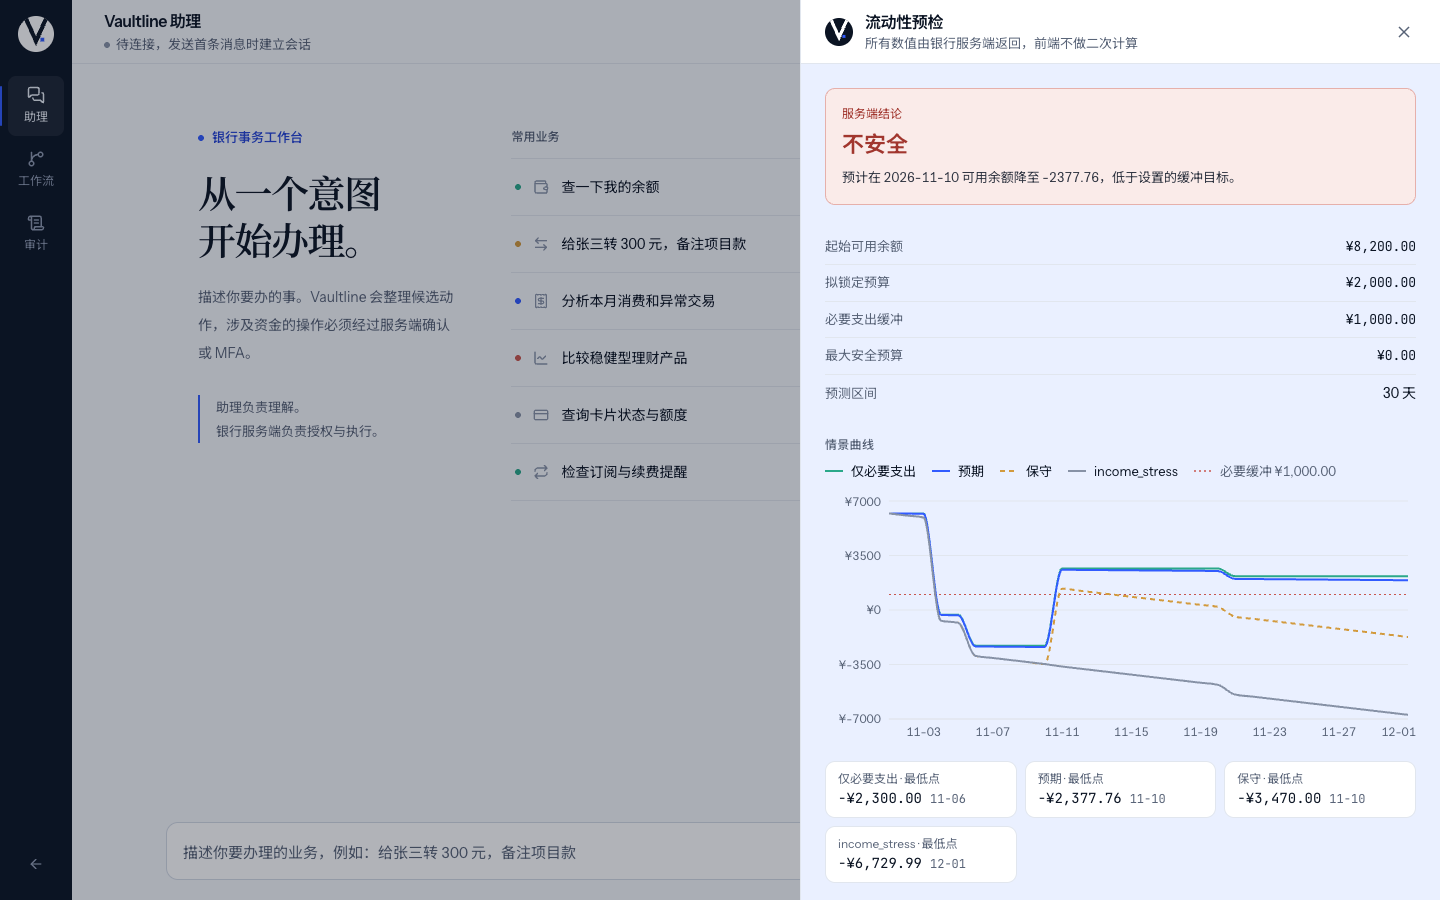
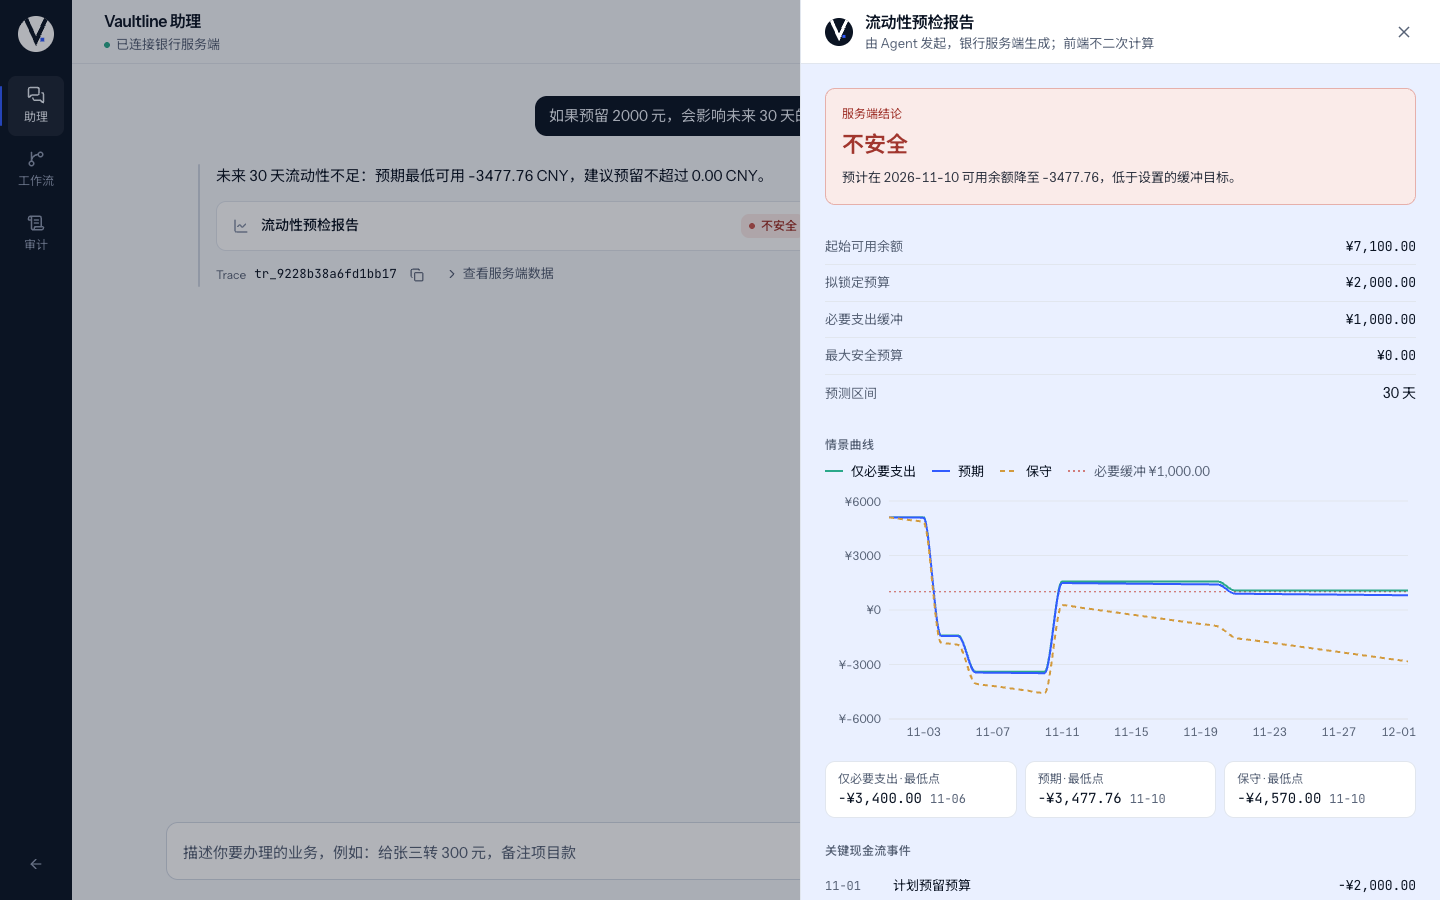
fix: route liquidity preflight through the agent

diff --git a/frontend/components/workspace/liquidity-drawer.tsx b/frontend/components/workspace/liquidity-drawer.tsx
@@ -1,17 +1,15 @@
 'use client'
 
 import { Check, X } from 'lucide-react'
-import { useEffect, useId, useRef, useState, type FormEvent } from 'react'
+import { useEffect, useRef, useState } from 'react'
 import { VaultlineSeal } from '@/components/vaultline/seal'
 import { cn } from '@/lib/utils'
-import { newIdempotencyKey, toApiError } from '@/lib/vaultline/api'
-import { mapApiError, type SafeErrorState } from '@/lib/vaultline/errors'
 import { formatDate, formatMoney } from '@/lib/vaultline/format'
 import { TONE, VERDICT } from '@/lib/vaultline/status'
 import type { LiquidityAlternative, LiquiditySimulation } from '@/lib/vaultline/types'
 import type { WorkspaceSession } from '@/lib/vaultline/use-workspace-session'
 import { LiquidityChart } from './liquidity-chart'
-import { Callout, CopyId, FieldList, RawData, SectionLabel, Spinner, StatusPill } from './primitives'
+import { CopyId, FieldList, RawData, SectionLabel, Spinner, StatusPill } from './primitives'
 
 interface LiquidityDrawerProps {
   open: boolean
@@ -19,68 +17,6 @@ interface LiquidityDrawerProps {
   session: WorkspaceSession
   creatingWorkflow: boolean
   onSelectAlternative: (simulation: LiquiditySimulation, alternative: LiquidityAlternative) => void
-}
-
-function RequestForm({ session }: { session: WorkspaceSession }) {
-  const inputId = useId()
-  const [budget, setBudget] = useState('')
-  const [pending, setPending] = useState(false)
-  const [error, setError] = useState<SafeErrorState | null>(null)
-  const keyRef = useRef<{ budget: string; key: string } | null>(null)
-
-  async function submit(event: FormEvent) {
-    event.preventDefault()
-    const amount = Number(budget)
-    if (!Number.isFinite(amount) || amount <= 0 || pending) return
-    if (keyRef.current?.budget !== budget) keyRef.current = { budget, key: newIdempotencyKey() }
-    setPending(true)
-    setError(null)
-    try {
-      const simulation = await session.adapter.createLiquiditySimulation({ proposed_budget: amount, horizon_days: 30 }, keyRef.current.key)
-      keyRef.current = null
-      session.setLiquidity(simulation)
-      session.rememberTrace(simulation.trace_id)
-    } catch (e) {
-      setError(mapApiError(toApiError(e)))
-    } finally {
-      setPending(false)
-    }
-  }
-
-  return (
-    <form onSubmit={submit} className="flex flex-col gap-3">
-      <p className="text-pretty text-[15px] leading-relaxed">在锁定预算前，看清未来 30 天的现金流最低点。</p>
-      <label htmlFor={inputId} className="text-[13px] text-muted-foreground">
-        拟锁定预算（元）
-      </label>
-      <div className="flex gap-2">
-        <input
-          id={inputId}
-          name="budget_amount"
-          value={budget}
-          onChange={(e) => setBudget(e.target.value.replace(/[^\d.]/g, ''))}
-          autoComplete="off"
-          inputMode="decimal"
-          placeholder="例如 5000"
-          className="h-10 min-w-0 flex-1 rounded-lg border border-input bg-card px-3 font-mono text-[15px] outline-none focus:border-cobalt"
-        />
-        <button
-          type="submit"
-          disabled={pending || !budget}
-          className="inline-flex h-10 shrink-0 items-center gap-2 rounded-lg bg-cobalt px-4 text-[14px] font-medium text-primary-foreground transition-colors hover:bg-cobalt-ink disabled:opacity-50"
-        >
-          {pending && <Spinner />}
-          运行预检
-        </button>
-      </div>
-      {error && (
-        <Callout tone={error.tone} title={error.title}>
-          <p>{error.body}</p>
-        </Callout>
-      )}
-      <p className="text-[12.5px] leading-relaxed text-muted-foreground">预检只读，不冻结资金、不创建动作。结果由服务端根据账户现金流计算。</p>
-    </form>
-  )
 }
 
 function Alternatives({
@@ -241,9 +177,9 @@ export function LiquidityDrawer({ open, onClose, session, creatingWorkflow, onSe
           <VaultlineSeal className="size-7 shrink-0" />
           <div className="min-w-0 flex-1">
             <h2 id="ws-liquidity-title" className="text-[16px] font-semibold tracking-tight">
-              流动性预检
+              流动性预检报告
             </h2>
-            <p className="truncate text-[13px] text-muted-foreground">所有数值由银行服务端返回，前端不做二次计算</p>
+            <p className="truncate text-[13px] text-muted-foreground">由 Agent 发起，银行服务端生成；前端不二次计算</p>
           </div>
           <button
             type="button"
@@ -265,15 +201,17 @@ export function LiquidityDrawer({ open, onClose, session, creatingWorkflow, onSe
                 onSelect={(alt) => onSelectAlternative(simulation, alt)}
               />
             ) : (
-              <RequestForm session={session} />
+              <p className="text-[14px] leading-relaxed text-muted-foreground">
+                请先在对话中描述预算和现金流问题。Agent 会调用银行服务端的流动性预检工具。
+              </p>
             )}
             {simulation && (
               <button
                 type="button"
-                onClick={() => session.setLiquidity(null)}
+                onClick={onClose}
                 className="self-start text-[13px] font-medium text-cobalt-ink hover:underline"
               >
-                以新的预算重新预检
+                关闭报告，返回对话继续追问
               </button>
             )}
           </div>

diff --git a/frontend/lib/vaultline/api.ts b/frontend/lib/vaultline/api.ts
@@ -1,6 +1,5 @@
 import {
   asObject,
-  asNumber,
   asText,
   normalizeAction,
   normalizeAdvance,
@@ -16,7 +15,6 @@ import type {
   BankAction,
   Conversation,
   JsonObject,
-  LiquiditySimulation,
   MessageResult,
   Workflow,
   WorkflowAdvanceResult,
@@ -146,24 +144,6 @@ export const verifyActionMfa = (id: string, code: string, key: string) =>
   actionCall('POST', `/v1/actions/${seg(id)}/mfa/verify`, { code }, key)
 export const cancelAction = (id: string, key: string) => actionCall('POST', `/v1/actions/${seg(id)}/cancel`, {}, key)
 export const triggerAction = (id: string, key: string) => actionCall('POST', `/v1/actions/${seg(id)}/trigger`, {}, key)
-
-/* ---------- Liquidity ---------- */
-
-export async function createLiquiditySimulation(input: JsonObject, key: string): Promise<LiquiditySimulation> {
-  const budget = asNumber(input.proposed_budget)
-  if (budget === null || budget <= 0) {
-    throw new VaultlineApiError('invalid', '流动性预检金额无效。')
-  }
-  const body: JsonObject = {
-    account_id: asText(input.account_id) ?? 'acct_demo',
-    proposed_budget_minor: Math.round(budget * 100),
-    horizon_days: asNumber(input.horizon_days) ?? 30,
-  }
-  const buffer = asNumber(input.essential_buffer)
-  if (buffer !== null && buffer >= 0) body.essential_buffer_minor = Math.round(buffer * 100)
-  const { data, traceId } = await call('POST', '/v1/liquidity-simulations', body, key)
-  return requireValue(normalizeLiquidity(data, traceId), '流动性模拟结果')
-}
 
 /* ---------- Workflows ---------- */
 

diff --git a/frontend/components/workspace/empty-state.tsx b/frontend/components/workspace/empty-state.tsx
@@ -1,6 +1,6 @@
 'use client'
 
-import { ArrowLeftRight, ChevronRight, CreditCard, LineChart, Receipt, Repeat, Wallet } from 'lucide-react'
+import { ArrowLeftRight, ChartLine, ChevronRight, CreditCard, LineChart, Receipt, Repeat, Wallet } from 'lucide-react'
 
 const SHORTCUTS = [
   { prompt: '查一下我的余额', icon: Wallet, tag: '查询', color: 'bg-teal' },
@@ -53,6 +53,21 @@ export function EmptyState({ onPick, disabled }: { onPick: (prompt: string) => v
           </li>
         ))}
         </ul>
+        <button
+          type="button"
+          disabled={disabled}
+          onClick={() => onPick('如果预留 2000 元，会影响未来 30 天的必要支出吗？')}
+          className="group mt-5 flex items-center gap-3 border-l-2 border-teal py-2 pl-4 text-left transition-colors hover:bg-card disabled:opacity-50"
+        >
+          <ChartLine className="size-4 shrink-0 text-teal" aria-hidden />
+          <span className="min-w-0 flex-1">
+            <span className="block text-[14px] font-medium">直接问现金流影响</span>
+            <span className="mt-0.5 block text-[12px] leading-5 text-muted-foreground">
+              例如：预留 2000 元，会影响未来 30 天的必要支出吗？
+            </span>
+          </span>
+          <ChevronRight className="size-4 shrink-0 text-steel opacity-30 transition-opacity group-hover:opacity-100" aria-hidden />
+        </button>
       </div>
     </div>
   )

diff --git a/frontend/components/workspace/conversation-header.tsx b/frontend/components/workspace/conversation-header.tsx
@@ -1,6 +1,6 @@
 'use client'
 
-import { ChartLine, SquarePen } from 'lucide-react'
+import { SquarePen } from 'lucide-react'
 import { cn } from '@/lib/utils'
 import type { ConnectionState } from '@/lib/vaultline/use-workspace-session'
 
@@ -13,11 +13,9 @@ const CONNECTION: Record<ConnectionState, { label: string; dot: string }> = {
 export function ConversationHeader({
   connection,
   onNewSession,
-  onOpenLiquidity,
 }: {
   connection: ConnectionState
   onNewSession?: () => void
-  onOpenLiquidity: () => void
 }) {
   const c = CONNECTION[connection]
   return (
@@ -30,15 +28,6 @@ export function ConversationHeader({
         </p>
       </div>
       <div className="flex shrink-0 items-center gap-1">
-        <button
-          type="button"
-          onClick={onOpenLiquidity}
-          className="inline-flex h-10 items-center gap-2 rounded-md border border-border bg-card px-3 text-[13px] font-medium transition-colors hover:border-line-strong"
-        >
-          <ChartLine className="size-4 text-muted-foreground" aria-hidden />
-          <span className="hidden sm:inline">流动性预检</span>
-          <span className="sr-only sm:hidden">流动性预检</span>
-        </button>
         {onNewSession && (
           <button
             type="button"

diff --git a/frontend/components/vaultline/liquidity-section.tsx b/frontend/components/vaultline/liquidity-section.tsx
@@ -16,7 +16,7 @@ export function LiquiditySection() {
               锁定预算之前，先做流动性预检
             </h2>
             <p className="text-pretty leading-relaxed text-muted-foreground">
-              从工作台顶部打开预检，输入计划支出，服务端返回推演结果与可选方案。
+              直接问 Agent：“预留 2000 元会影响必要支出吗？”服务端返回推演结果与可选方案。
             </p>
           </div>
           <dl className="flex flex-col divide-y divide-border border-y border-border">
@@ -31,7 +31,7 @@ export function LiquiditySection() {
         <figure className="relative aspect-[16/7] overflow-hidden rounded-sm border border-border bg-card shadow-[0_24px_60px_-30px_rgb(15_23_42/0.28)] md:w-7/12">
           <Image
             src="/product/workspace-liquidity.png"
-            alt="工作台中打开的流动性预检抽屉，用于输入计划支出并请求服务端推演"
+            alt="Agent 发起流动性预检后，工作台展示服务端返回的情景曲线与替代方案"
             width={1440}
             height={900}
             sizes="(min-width: 768px) 60vw, 100vw"

diff --git a/frontend/lib/vaultline/adapters.ts b/frontend/lib/vaultline/adapters.ts
@@ -4,7 +4,6 @@ import type {
   BankAction,
   Conversation,
   JsonObject,
-  LiquiditySimulation,
   MessageResult,
   Workflow,
   WorkflowAdvanceResult,
@@ -22,7 +21,6 @@ export interface VaultlineAdapter {
   verifyActionMfa(actionId: string, code: string, key: string): Promise<BankAction>
   cancelAction(actionId: string, key: string): Promise<BankAction>
   triggerAction(actionId: string, key: string): Promise<BankAction>
-  createLiquiditySimulation(input: JsonObject, key: string): Promise<LiquiditySimulation>
   listWorkflows(): Promise<Workflow[]>
   getWorkflow(workflowId: string): Promise<Workflow>
   createWorkflow(input: JsonObject, key: string): Promise<Workflow>
@@ -39,7 +37,6 @@ export const liveAdapter: VaultlineAdapter = {
   verifyActionMfa: api.verifyActionMfa,
   cancelAction: api.cancelAction,
   triggerAction: api.triggerAction,
-  createLiquiditySimulation: api.createLiquiditySimulation,
   listWorkflows: api.listWorkflows,
   getWorkflow: api.getWorkflow,
   createWorkflow: api.createWorkflow,

diff --git a/frontend/components/workspace/workspace-shell.tsx b/frontend/components/workspace/workspace-shell.tsx
@@ -194,7 +194,6 @@ export function WorkspaceShell() {
               <ConversationHeader
                 connection={session.connection}
                 onNewSession={session.thread.length > 0 ? session.reset : undefined}
-                onOpenLiquidity={() => setLiquidityOpen(true)}
               />
               <div ref={scrollRef} className="ws-scroll min-h-0 flex-1 overflow-y-auto">
                 <div className="mx-auto w-full max-w-[780px] px-4 py-6 sm:px-8 sm:py-8">

diff --git a/docs/产品需求.md b/docs/产品需求.md
@@ -161,6 +161,7 @@
 用户故事：作为用户，我希望在锁定预算或安排大额支出前，知道未来一段时间是否会影响房租、还款等必要支出。
 
 - 用户可以直接询问“锁定 1000 元会影响房租吗”。
+- 流动性预检不设独立业务入口。用户只在对话中发起，Agent 选择服务端白名单的 `liquidity_simulation` 能力；报告抽屉只负责展开该次服务端结果，不是独立表单或第二套工作流。
 - 服务端读取可用余额、已确认预约转账、活跃订阅、预置房租/还款/工资和历史消费。
 - 分别计算必要支出、预期消费、保守消费和收入未到账四种情景，返回逐日余额曲线、最低点、风险原因和最大建议预留金额。
 - 生成保持原计划、降至缓冲内额度、等待下一笔收入和分两笔预留等替代方案，并给出各自取舍。
@@ -249,7 +250,7 @@ sequenceDiagram
 | 账单报告 | 总额、分类、异常和明细 | 切换时间范围和分类 |
 | 产品比较 | 产品卡片、风险提示、对比项 | 查看详情、发起申购动作 |
 | 审计抽屉 | 计划、策略、授权、工具回执时间线 | 只读查看，敏感字段脱敏 |
-| 流动性 What-if | 三情景曲线、关键现金流、四种替代方案 | 选择方案、生成新的待授权预算工作流 |
+| 流动性预检报告 | 三情景曲线、关键现金流、四种替代方案 | 从 Agent 结果展开报告；选择方案后生成新的待授权预算工作流 |
 
 ### 6.2 交互规则
 
@@ -259,6 +260,7 @@ sequenceDiagram
 - 红色动作在 MFA 成功前不显示“即将成功”，工具失败时显示“未完成”并说明账户未变化证据。
 - 对话、错误和审计信息不显示完整账户号、验证码或 Token。
 - 选择非条件且非 `unsafe` 的 What-if 替代方案才会生成新的预算工作流；依赖未确认收入的方案只展示，原方案不修改、不执行，每个预算节点仍独立确认或 MFA。
+- 流动性预检只有一个首期入口：用户在对话中提出预算或现金流问题。前端不得以独立导航、顶部工具按钮或独立表单绕过 Agent 结果直接发起预检。
 
 ## 7. 非功能需求与验收
 

diff --git a/docs/概要设计.md b/docs/概要设计.md
@@ -524,6 +524,10 @@ MFA 连续失败先锁定当前 `Action`：服务端将其 `Authorization.status
 
 ### 6.6 流动性预检
 
+首期 UI 的唯一入口是对话：用户消息先经过 Agent 意图识别，模型只输出 Schema 约束的 `liquidity_simulation` 候选计划和实体，Go 服务端随后调用确定性预检工具并返回 `MessageResult.liquidity`。前端将该结果卡片展开为只读报告抽屉；事实、曲线、方案和 Trace 均来自服务端。
+
+`POST /v1/liquidity-simulations` 仍作为通用 API 资源保留，用于服务端内部调用、集成测试和其他受控客户端；当前 Next.js 前端不直接调用该端点，避免形成绕过 Agent 的第二业务入口。
+
 1. 服务端读取账户可用余额，校验账户归属。
 2. 加载预置现金流、活跃订阅、已确认预约转账和过去 30 天消费。
 3. 展开预测窗口内的月度/周度事件，并在同一份有序事件列表中加入计划预留金额。
